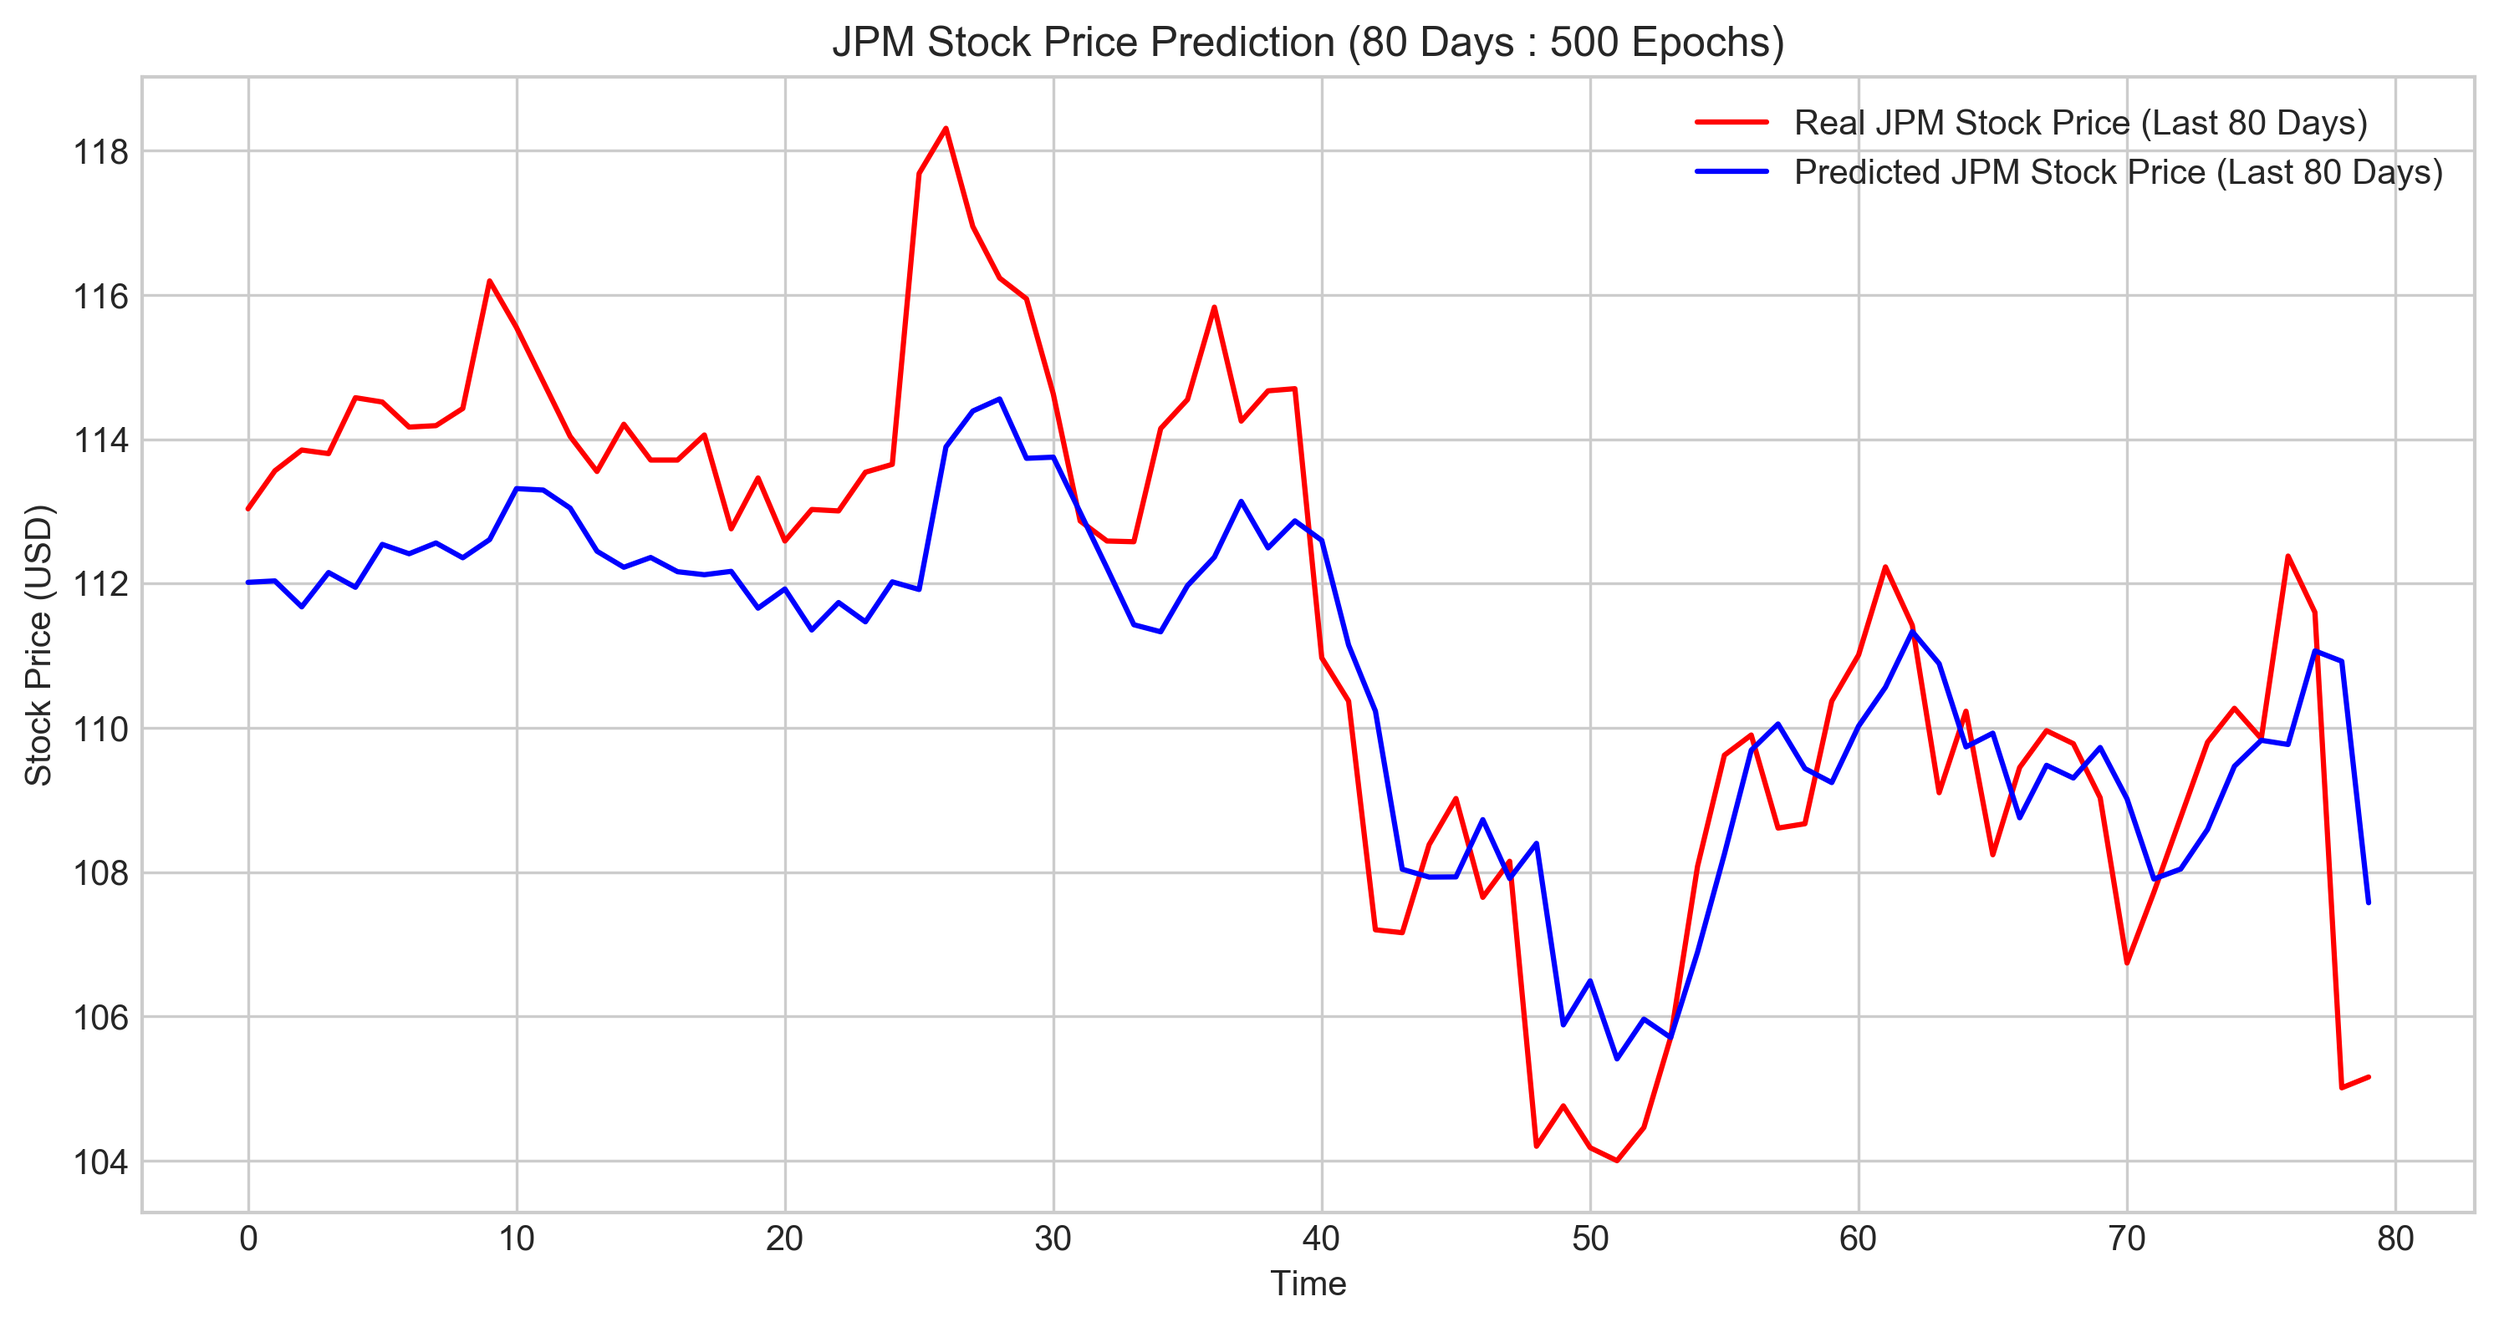
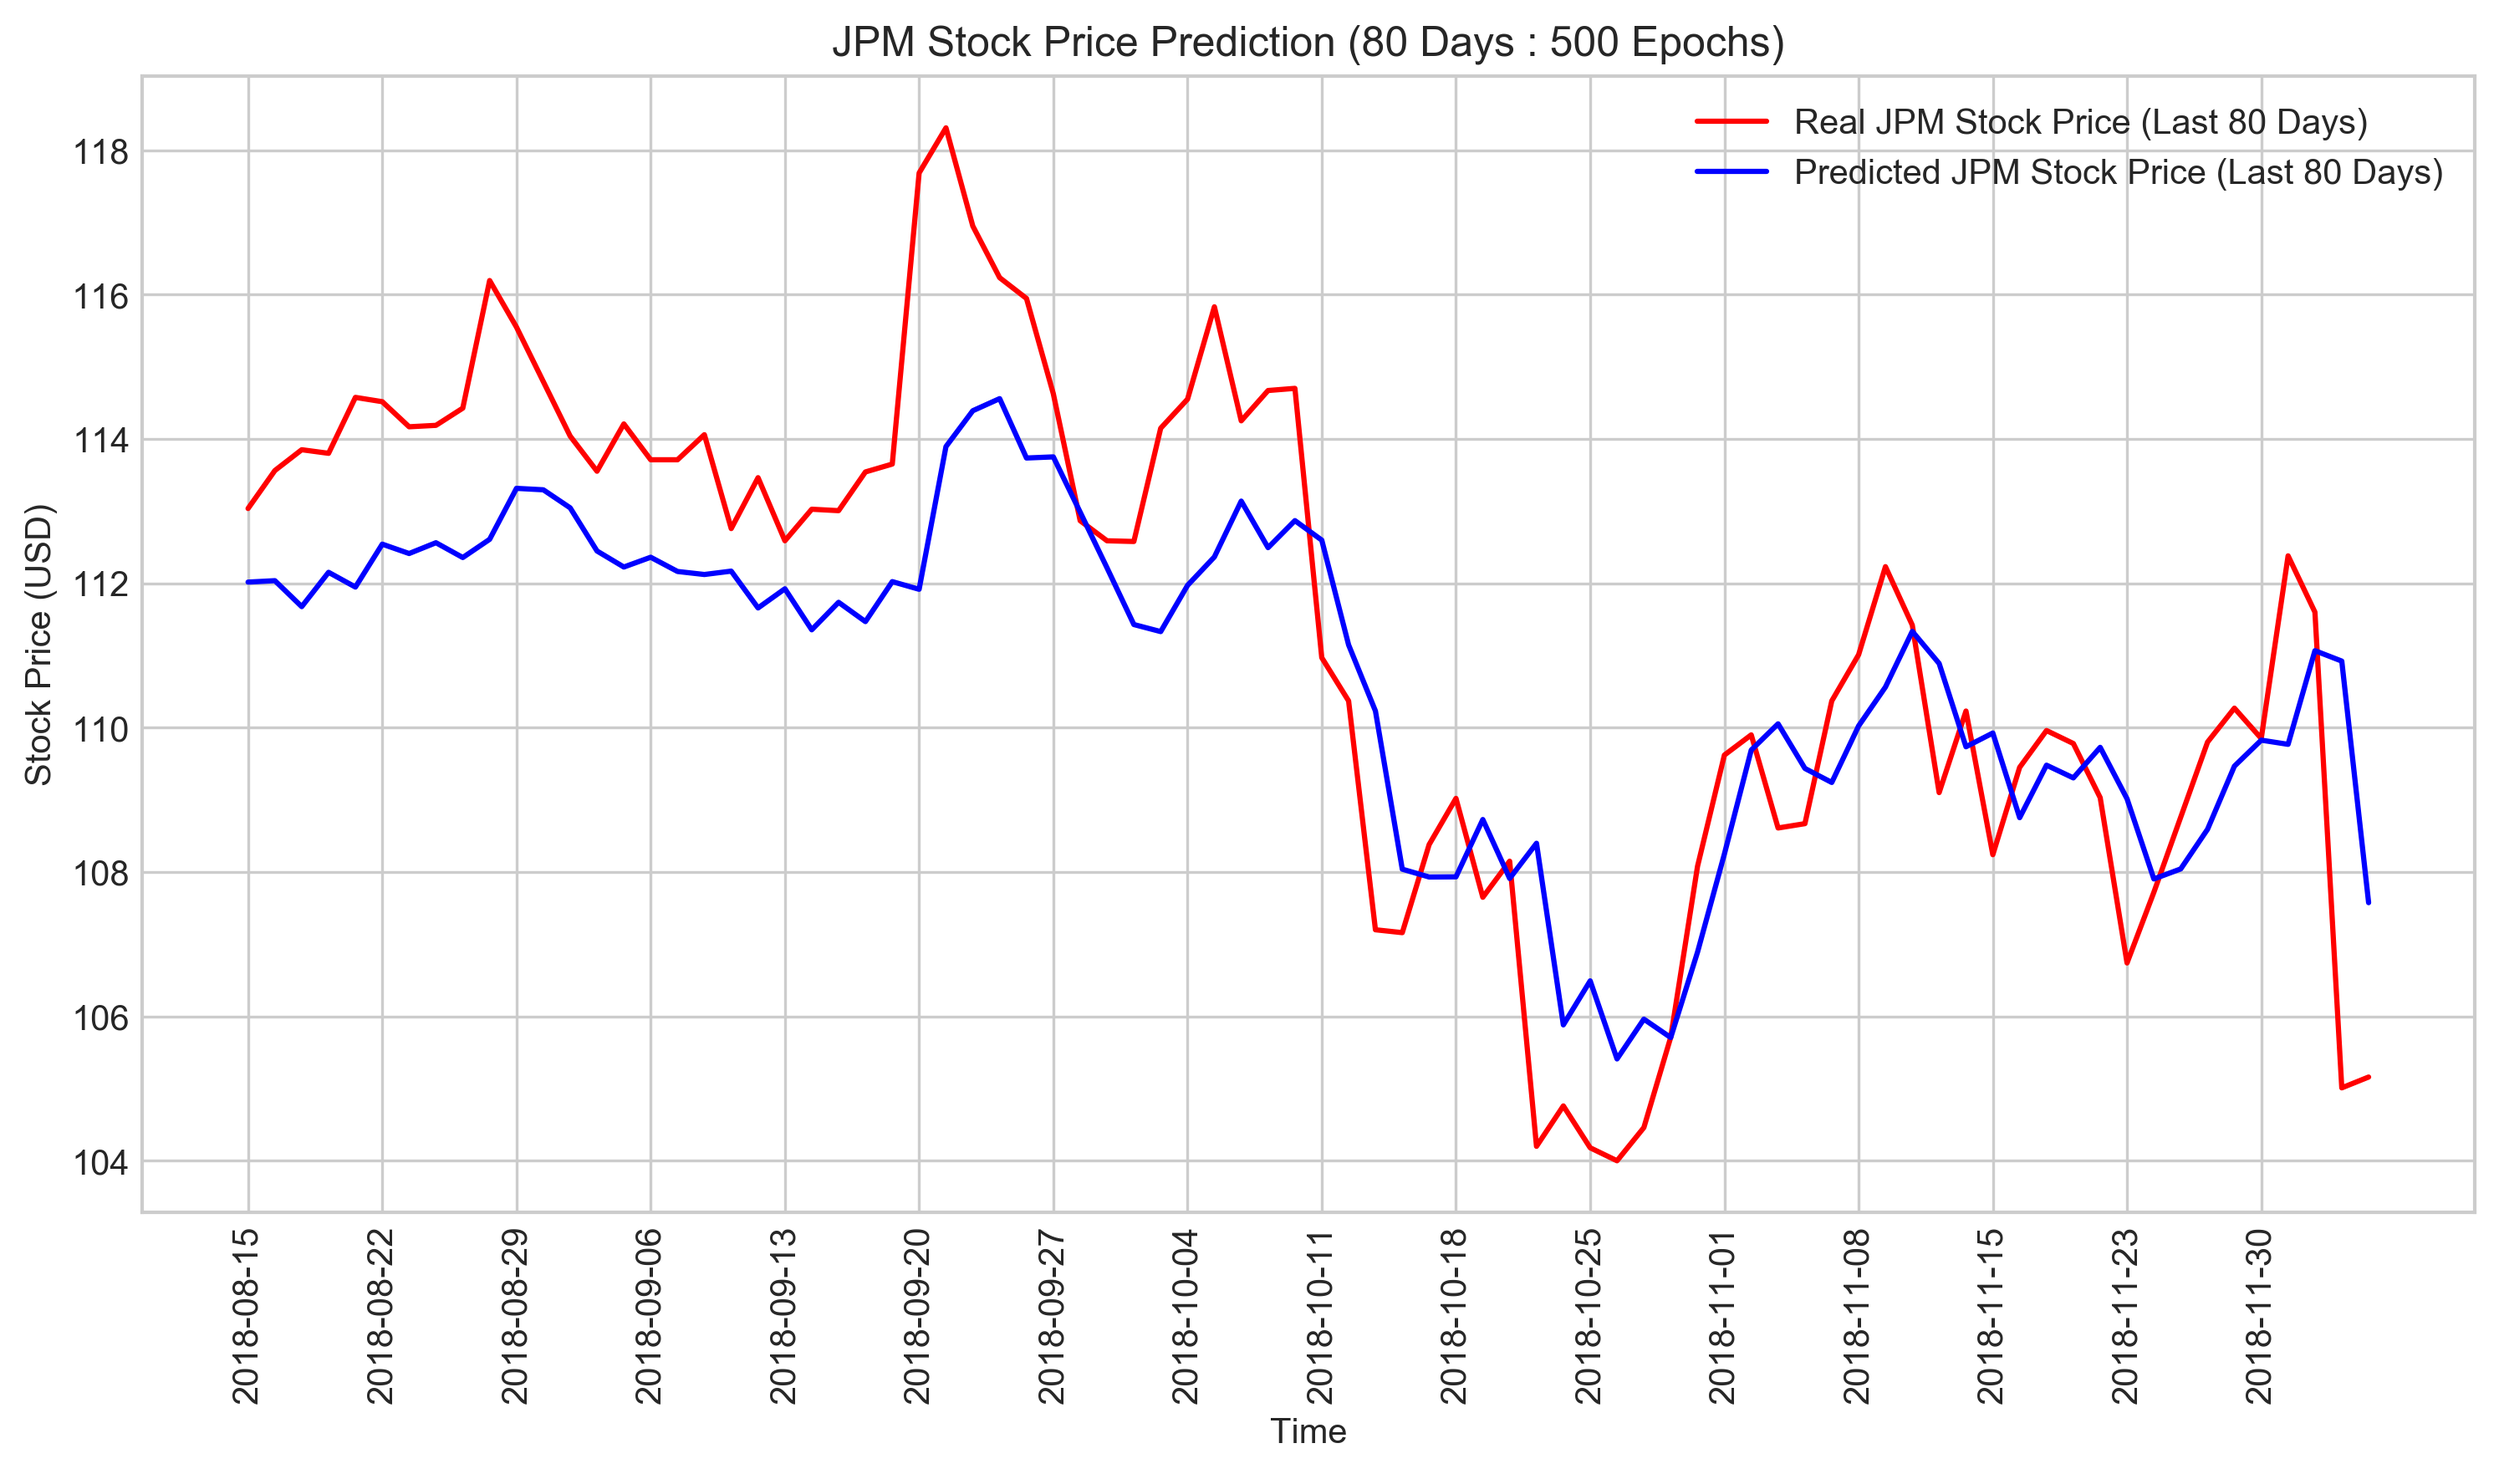
updated final visualization with dates

diff --git a/user/neal/3.0-ng-lstm-rnn-basic-model.py b/user/neal/3.0-ng-lstm-rnn-basic-model.py
@@ -174,7 +174,8 @@ plt.plot(predicted_stock_price,
          color='blue',
          label='Predicted JPM Stock Price (Last %s Days)' % num_days_pred)
 plt.title('JPM Stock Price Prediction (%s Days : %s Epochs)' % (num_days_pred, epochs))
-plt.xlabel('Time')
+plt.xticks(range(0, data_test.shape[0], 5), data_test['Date'].loc[::5], rotation=90)
+plt.xlabel('Date')
 plt.ylabel('Stock Price (USD)')
 plt.legend()
 
